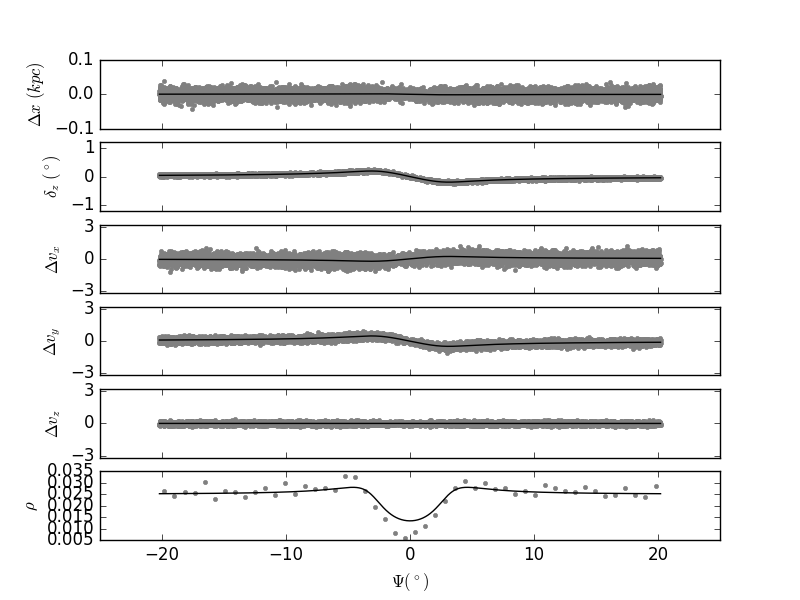
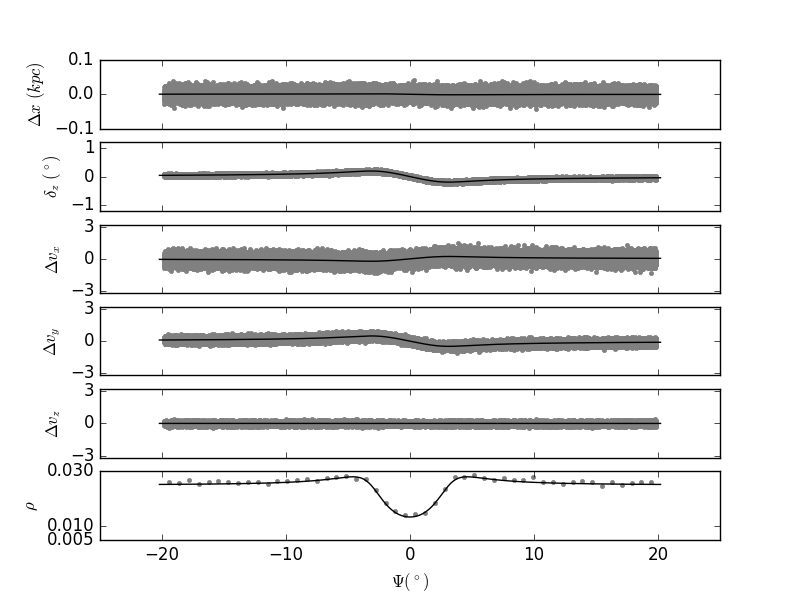
Add fitting to data

diff --git a/StreamModel.py b/StreamModel.py
@@ -37,13 +37,16 @@ class Stream:
         Calculated parameters:
             wperp (km/s) - Perpendicular component of the relative velocity to points in the stream
             wpar (km/s) - Parallel component of relative velocity 
-            w - Total magnitude of relative velocity between the subhalo and points in the stream
+            w (km/s) - Total magnitude of relative velocity between the subha and points in the stream
 
-            gamma - 
+            dv (km/s) - Calcultes the initial kick to velocity as a function of angle. Not time dependent.
+            psi (radians) - Calculates the new angles to stars after a time, t.
+            rho - Calculates the density of the stream after a time, t.
+            dx (dx[0] (pc), dx[2] (radians)) - Change to position of stars in the stream after a time, t.
+            dxdot (km/s) - Change in velocity of stars in the stream after a time, t.
             
-    gT - calculates a very commonly used angle
-    calc_dv - 
-    
+            gT (radians) - calculates a very commonly used angle in several functions
+            gamma - 
     '''
     def __init__(self,mass,rstream,rsub,impact,subvel,t):
         self.m = mass   
@@ -54,16 +57,15 @@ class Stream:
         self.t = t*1.02 # Myr*1.02(pc/(km/s)/Myr) - converts to time in units pc/(km/s)
         self.vy = self.nfwp.vcirc(self.r0/10000.)*168.2 
 
-        # Calculate the different components of the subhalo relative velocity
         self.wperp = np.sqrt(subvel[0]**2 + subvel[2]**2)
-        self.wpar = self.vy - wvec[1]
-        self.w = np.sqrt(subvel[0]**2 + subvel[2]**2 + (self.vy - wvec[1])**2)
+        self.wpar = self.vy - subvel[1]
+        self.w = np.sqrt(subvel[0]**2 + subvel[2]**2 + (self.vy - subvel[1])**2)
 
         self.gamma = self.calc_gamma()
-        self.dv = self.calc_dv(self.psi0)     # Calculates the change in initial velocity as a function of angle       
-        self.psi,self.rho = self.calc_psi_rho(self.psi0)     # Calculates the change in angle as a function of time and the change in density
-        self.dx = self.calc_dx(self.psi0)      # Calculates the perturbations in the x and z direction of the stream
-        self.dxdot = self.calc_dxdot(self.psi0)   # Calculates the change in the stream velocity as a function of time and angle
+        self.dv = self.calc_dv(self.psi0)            
+        self.psi,self.rho = self.calc_psi_rho(self.psi0)
+        self.dx = self.calc_dx(self.psi0) 
+        self.dxdot = self.calc_dxdot(self.psi0) 
 
         
     def gT(self):
@@ -152,35 +154,24 @@ class Stream:
         return deltaxdot
 
 
-def GenData(stream,nstars):
+def GenData(stream,nstars,std):
 
-    #Method 1 to calculate CDF
-    cdf = [simps(stream.rho[:i],stream.psi0[:i]) for i in range(1,len(stream.psi))]
-    #Method 2 to calculate CDF
-    rhopdf = stream.rho/sum(stream.rho)
-    rhocdf = (np.cumsum(rhopdf) - np.min(np.cumsum(rhopdf)))
-    rhocdf = rhocdf/np.max(rhocdf)
+    dxstd = std[0]
+    dxdotstd = std[1]
+   #generate random number between (0,1] with uniform distribution
+    psi0 = np.random.uniform(stream.psi0[int(stream.nump*0.1)],stream.psi0[-int(stream.nump*0.1+1)],size=nstars)
 
+    print stream.nump*0.01
+    print stream.psi0[int(stream.nump*0.01)],stream.psi0[-int(stream.nump*0.01+1)]
     
-    #Plot the two CDF's which are NOT the same
-    plt.figure()
-    plt.plot(stream.psi[:999]*180./np.pi,cdf/np.max(cdf))
-    plt.plot(stream.psi*180./np.pi,rhocdf)
-    
-    #generate random number between (0,1] with uniform distribution
-    rand = np.random.uniform(size=nstars)
-
-    #map to psi0
-    f = interp1d(rhocdf,stream1.psi0)
-    psi0 = f(rand)
-                
+    #Calculate stream parameters with the new psi0               
     datapsi, datarho = stream.calc_psi_rho(psi0)     
     datadx = stream.calc_dx(psi0)      
     datadxdot = stream.calc_dxdot(psi0) 
+
+    print np.min(datapsi), np.max(datapsi)
     
     #add noise to the variables
-    dxstd = [10.,0.,0.02*np.pi/180.]
-    dxdotstd = [0.3,0.15,0.1]
     noisedx = np.zeros([3,nstars])
     noisedxdot = np.zeros([3,nstars])
 
@@ -192,14 +183,8 @@ def GenData(stream,nstars):
     datadx = datadx + noisedx
     datadxdot = datadxdot + noisedxdot
 
-    nbins = 50
-    rho,edges = np.histogram(datapsi*180./np.pi,nbins,density=True)
-    middle = np.zeros(nbins)
-    for i in range(nbins):
-        middle[i] = (edges[i]+edges[i+1])/2.
-
-    return datapsi,datadx,datadxdot,[rho,middle]
-
+    return datapsi,datadx,datadxdot
+    
 def Erkalplot(stream):
 
     dx = stream.dx
@@ -208,9 +193,20 @@ def Erkalplot(stream):
     psi0 = stream.psi0*180./np.pi
     dv = stream.dv
     rho = stream.rho/simps(stream.rho,psi)
-    
-    psidata,dxdata,dxdotdata,rhodata = GenData(stream,10000)
+
+    dxstd = [10.,0.,0.02*np.pi/180.]
+    dxdotstd = [0.3,0.15,0.1]
+
+    psidata,dxdata,dxdotdata = GenData(stream,100000,[dxstd,dxdotstd])
     psidata = psidata*180./np.pi
+
+    print np.min(psidata), np.min(psi)
+
+    nbins = 50
+    rhodata,edges = np.histogram(psidata,nbins,density=True)
+    middle = np.zeros(nbins)
+    for i in range(nbins):
+        middle[i] = (edges[i]+edges[i+1])/2.
 
     f, (ax1, ax2, ax3, ax4, ax5, ax6) = plt.subplots(6, 1, sharex='col', sharey='row')
     ax1.plot(psidata,dxdata[0]/1000.,'.',c='grey')
@@ -219,31 +215,36 @@ def Erkalplot(stream):
     ax1.set_ylim([-0.1,0.1])
     ax1.set_yticks([-0.1,0.,0.1])
     ax1.set_ylabel(r'$\Delta x\,\,(kpc)$')
+    
     ax2.plot(psidata,dxdata[2]*180./np.pi,'.',c='grey')
     ax2.plot(psi,dx[2]*180./np.pi,'k-')
     ax2.set_ylim([-1.2,1.2])
     ax2.set_ylabel(r'$\delta_z\,\,(^\circ)$')
     ax2.set_yticks([-1,0.,1])
+    
     ax3.plot(psidata,dxdotdata[0],'.',c='grey')
     ax3.plot(psi,dxdot[0],'k-')
     ax3.set_ylim([-3.2,3.2])
     ax3.set_ylabel(r'$\Delta v_x$')
     ax3.set_yticks([-3,0.,3])
+    
     ax4.plot(psidata,dxdotdata[1],'.',c='grey')
     ax4.plot(psi,dxdot[1],'k-')
     ax4.set_ylim([-3.2,3.2])
     ax4.set_ylabel(r'$\Delta v_y$')
     ax4.set_yticks([-3,0.,3])
+    
     ax5.plot(psidata,dxdotdata[2],'.',c='grey')
     ax5.plot(psi,dxdot[2],'k-')
     ax5.set_ylim([-3.2,3.2])
     ax5.set_ylabel(r'$\Delta v_z$')
     ax5.set_yticks([-3,0.,3])
-    ax6.plot(rhodata[1],rhodata[0],'.',c='grey')
+    
+    ax6.plot(middle,rhodata,'.',c='grey')
     ax6.plot(psi,rho,'k-')
     ax6.set_ylabel(r'$\rho$')
     ax6.set_xlabel(r'$\Psi (^\circ)$')
- #   ax6.set_yticks([0.4,0.8,1.2])
+    ax6.set_yticks([0.005,0.01,0.03])
 
     mass = '%.0e' % stream.m
     filename = 'M_'+mass+'.png'
@@ -263,6 +264,9 @@ if __name__ == "__main__":
 
     stream1 = Stream(m,r0,rs,b,wvec,time)
     stream2 = Stream(1.e7,r0,250.,b,wvec,time)
+
+#    GenData(stream1,1000000)
+#    GenData(stream2,1000000)
 
     Erkalplot(stream1)
     Erkalplot(stream2)

diff --git a/FitStream.py b/FitStream.py
@@ -1,0 +1,88 @@
+import numpy as np
+from scipy.optimize import minimize
+from scipy.interpolate import interp1d
+from scipy.integrate import simps
+import matplotlib.pyplot as plt
+import StreamModel as sm
+
+
+def fitData(stream,guess):
+
+    #Generate the data that you wnat to fit to
+    dxstd = [10.,0.,0.02*np.pi/180.]
+    dxdotstd = [0.3,0.15,0.1]
+
+    datapsi1,datadx1,datadxdot1 = sm.GenData(stream,100,[dxstd,dxdotstd])
+
+    #Find the mass that minimizes the log likelihood function
+    fit = minimize(logLikelihood,guess,args=([datapsi1,datadx1[0]],dxstd[0]))
+    fit2 = minimize(lambda x: logLikelihood(x,[datapsi1,datadx1[0]],dxstd[0]),guess)
+
+    print fit.x, fit2.x
+
+def logLikelihood(guess,data,std):
+
+    mass = guess[0]
+    psi = data[0]
+    dx = data[1]
+
+    print mass
+
+    #Create a stream with the current mass
+    stream = sm.Stream(mass,9800.,625.,0.,[0.,0.,150.],450.)
+
+    #Find the density at the point 
+    f = interp1d(stream.psi,stream.rho)
+    density = f(psi)
+
+    g = interp1d(stream.psi,stream.dx[0])
+    dxmodel = g(psi)
+
+    logL = logGaussian(data,dxmodel,std) + np.log(density)
+    neglogL = -np.sum(logL)
+    
+    return neglogL
+
+def logGaussian(data,model,std):
+
+    loggauss = -(0.5*np.log(2.*np.pi*std**2)+(data-model)**2*0.5/std**2)
+    return loggauss
+
+
+def prob(data):
+
+    L = len(data[0])
+    psidata = data[0]
+    dxdata = data[1]
+    mass = np.logspace(5,10,L)
+    std = 10.
+    p = np.zeros(L)
+    
+    for i in range(100):
+        stream = sm.Stream(mass[i],9800.,625.,0.,[0.,0.,150.],450.)
+
+        psi = stream.psi
+        rho = stream.rho/simps(stream.rho,psi)
+        dx = stream.dx[0]
+
+        rhofunc = interp1d(psi,rho)
+        dxfunc = interp1d(psi,dx)
+    
+        p[i] = np.prod(1./np.sqrt(2.*np.pi*std**2)*np.exp(-(dxdata-dxfunc(psidata))**2/2./std**2)*rhofunc(psidata))
+
+    plt.figure()
+    plt.semilogx(mass,p)
+    plt.show()
+
+                   
+stream1 = sm.Stream(1.e8,9800.,625.,0.,[0.,0.,150.],450.)
+
+dxstd = [10.,0.,0.02*np.pi/180.]
+dxdotstd = [0.3,0.15,0.1]
+datapsi1,datadx1,datadxdot1 = sm.GenData(stream1,100,[dxstd,dxdotstd])
+
+prob([datapsi1,datadx1[0]])
+
+fit = fitData(stream1,9.99e7)
+
+
